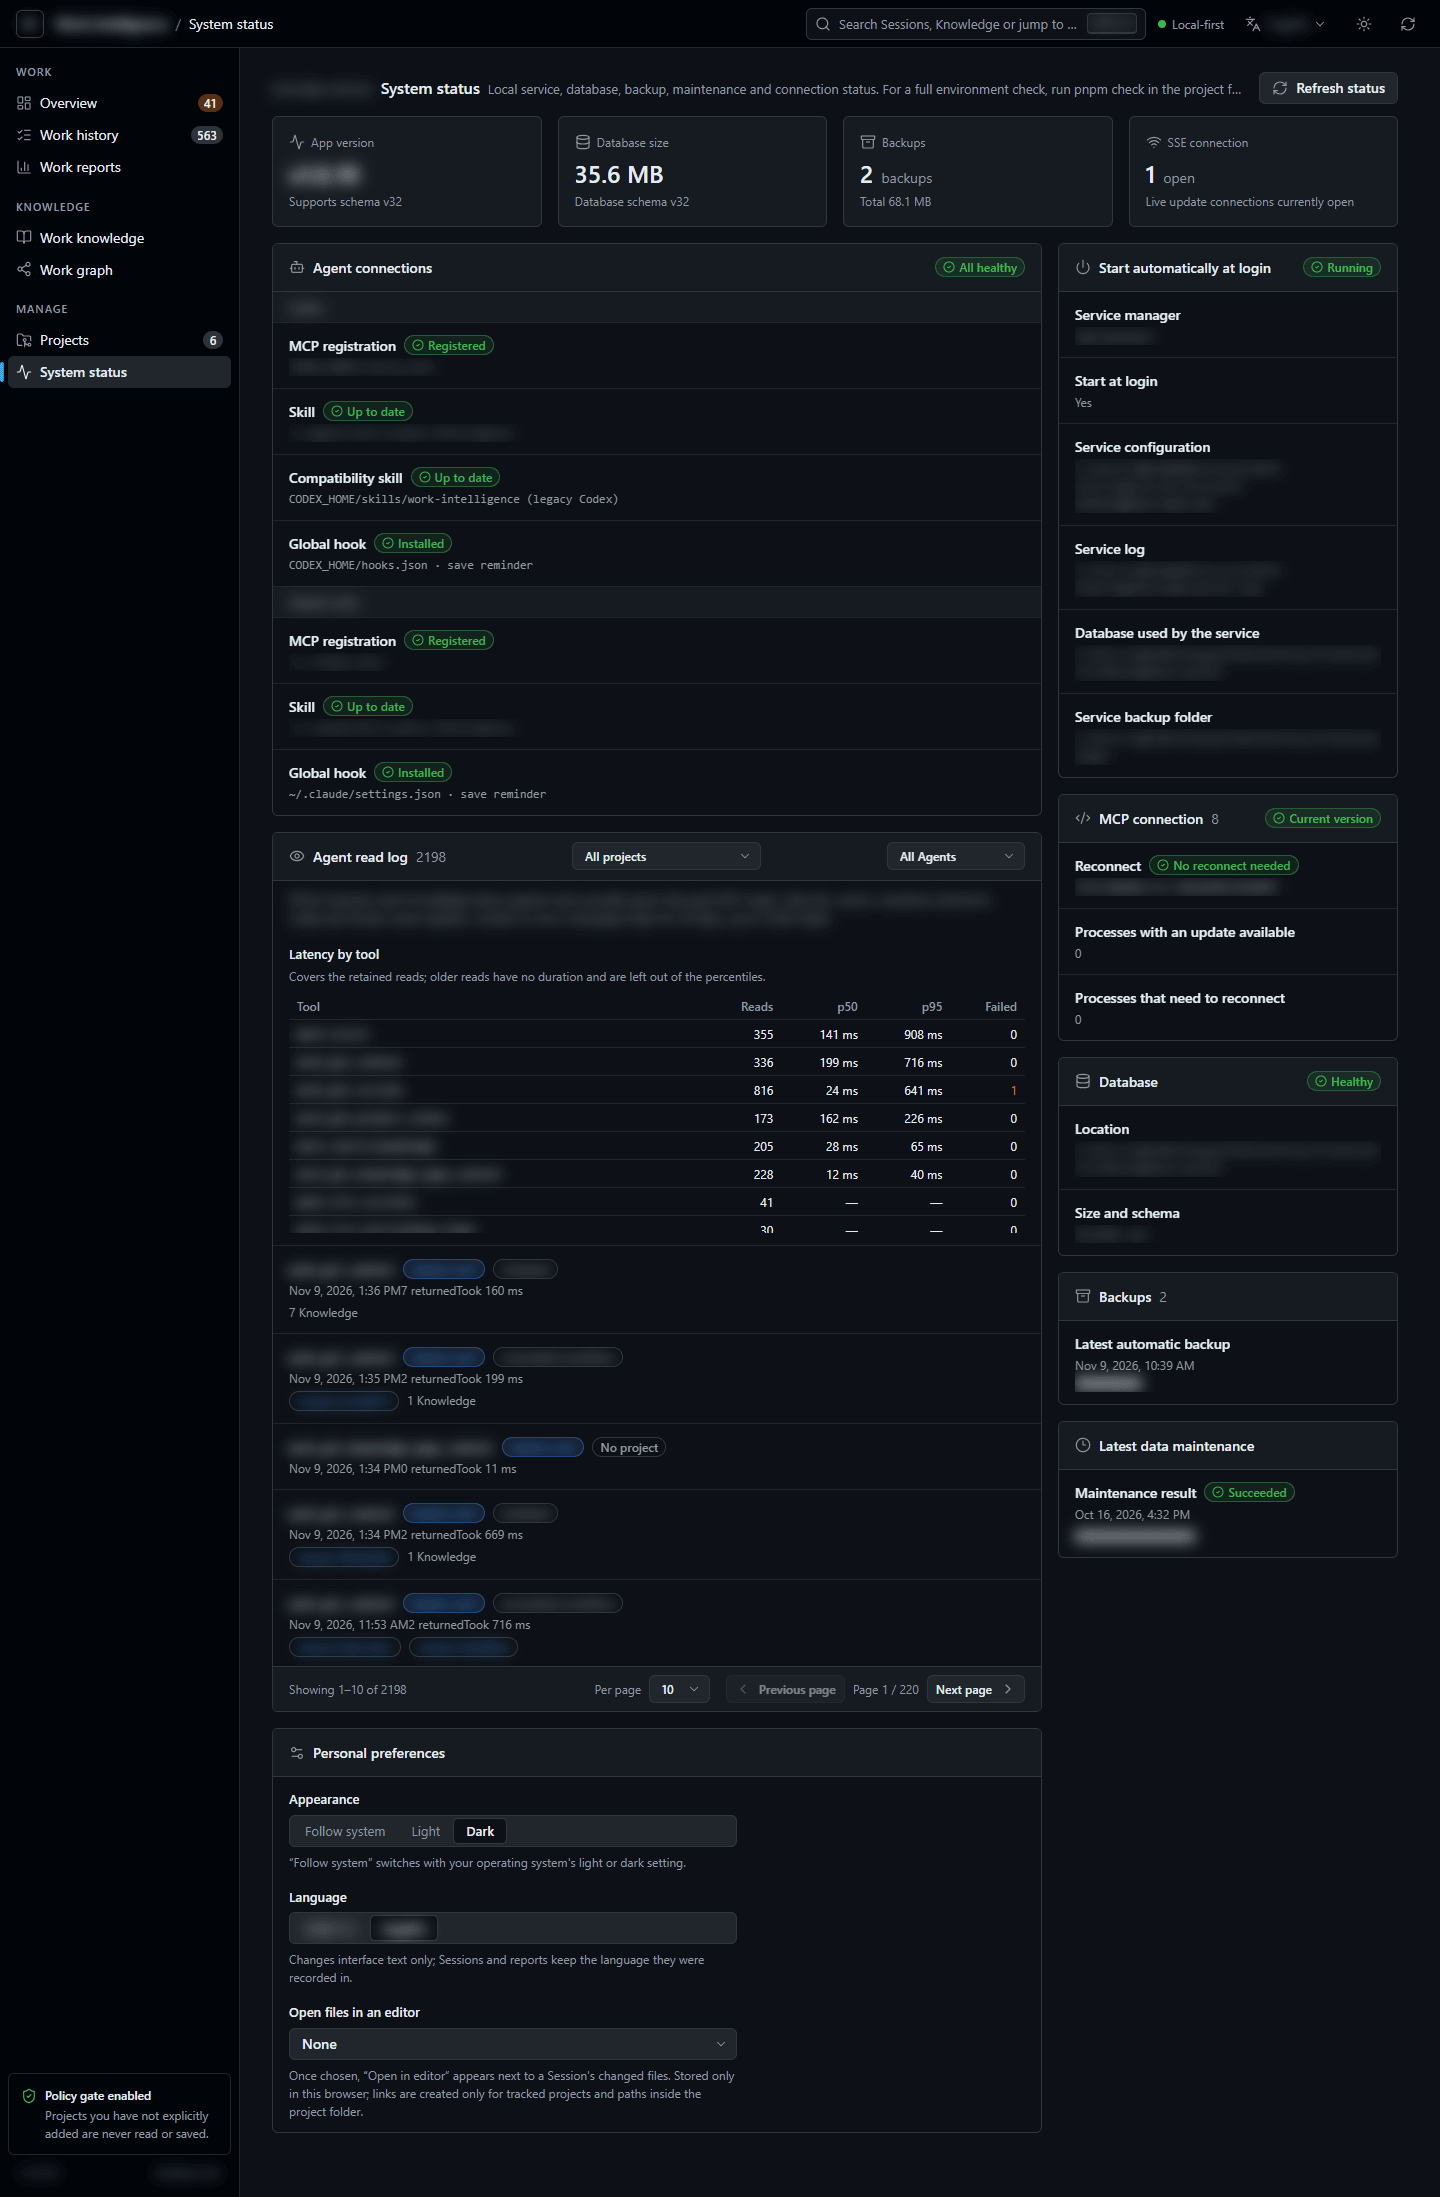
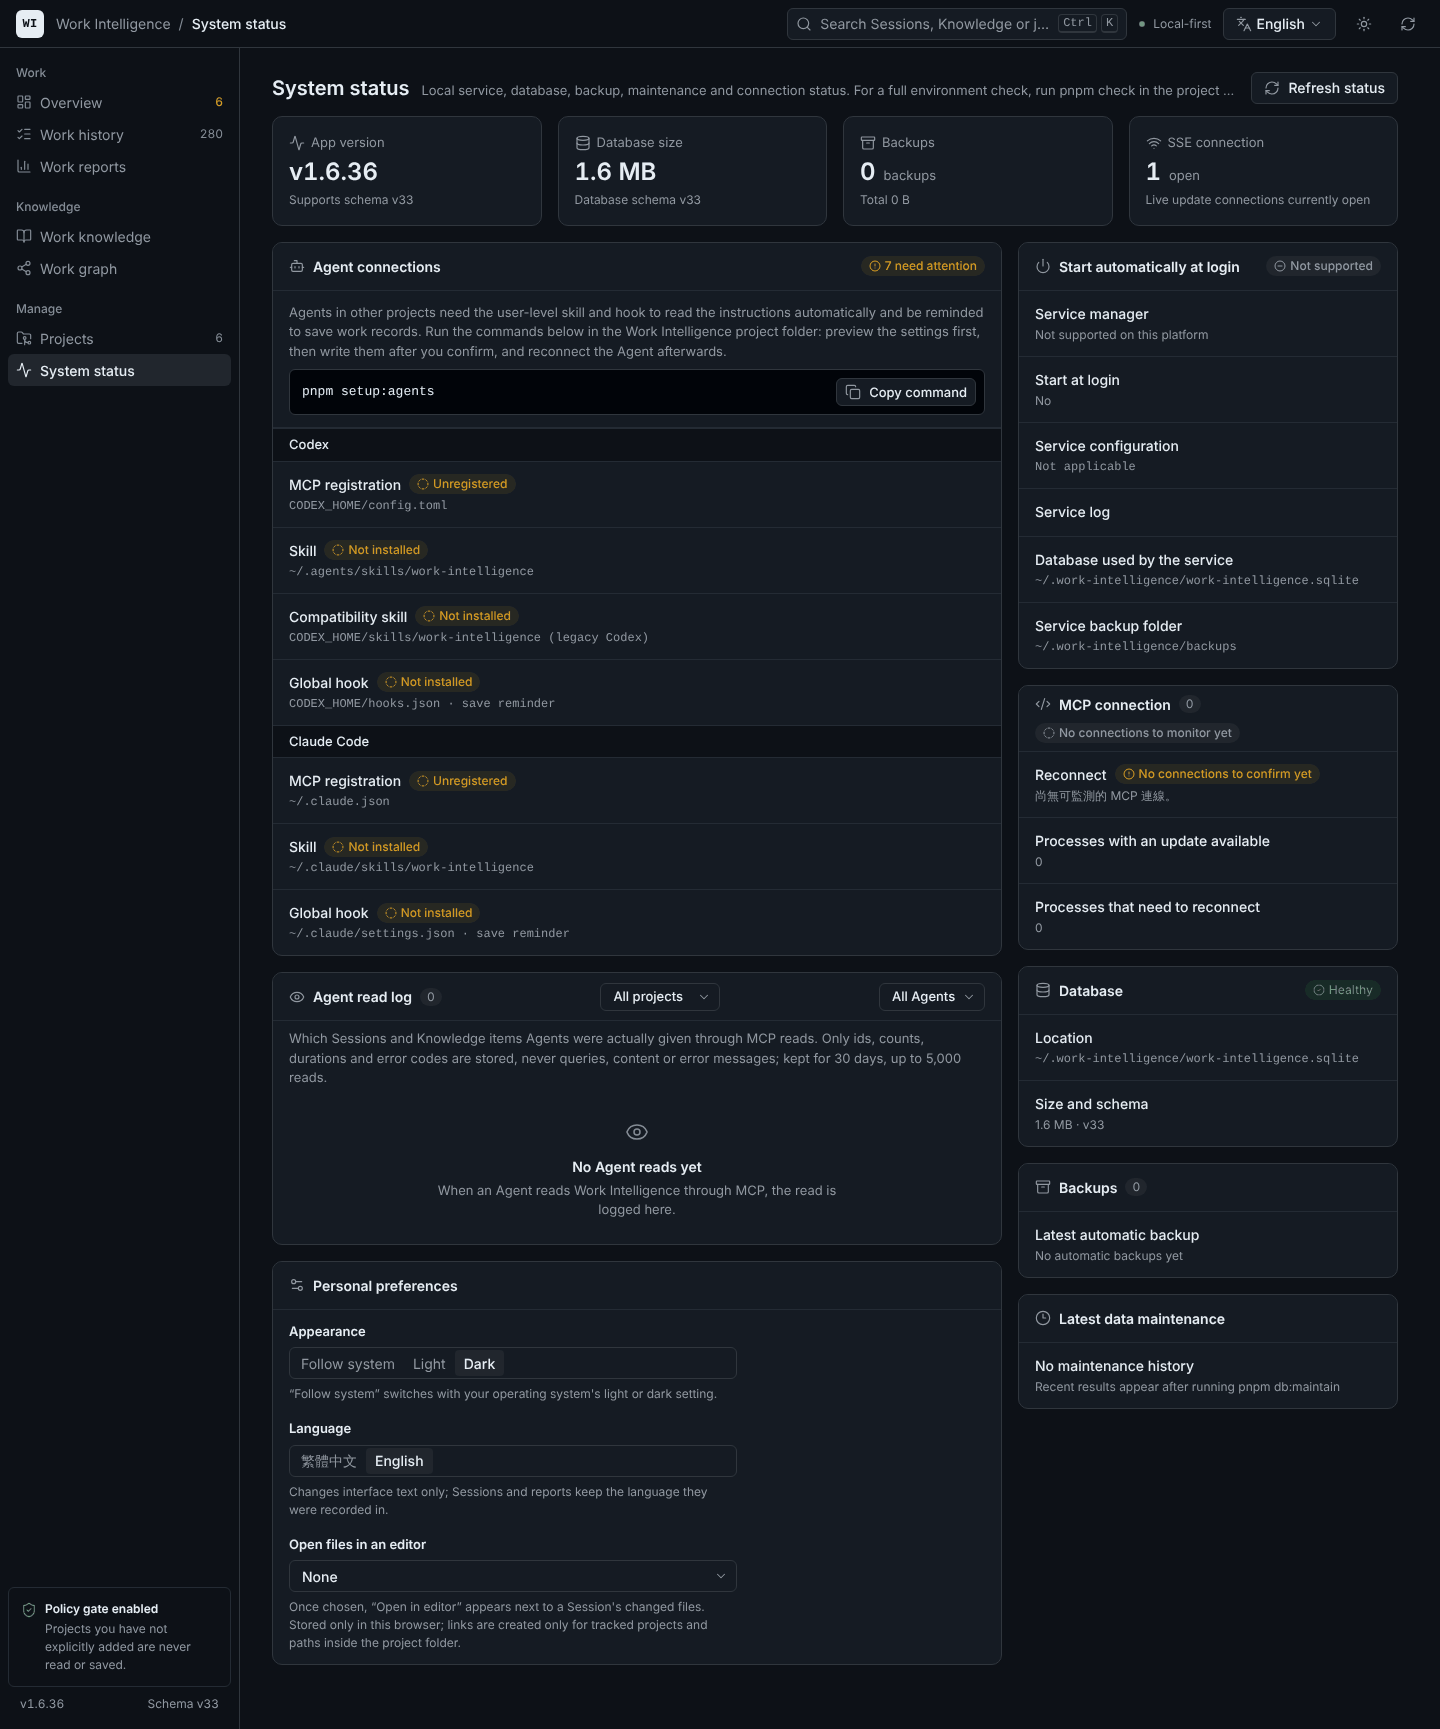
docs: retake README screenshots and record 1.6.36 verification
Retake all README screenshots (zh-TW and en-US) from the new UI with fictional sample data; the work graph shot now shows the Timeline tab. Fill in the verification results and remove the redesign brief.

Claude-Session: https://claude.ai/code/session_01VUVzVBGbKbJz4J43EaQv9q

diff --git a/docs/releases/1.6.36.md b/docs/releases/1.6.36.md
@@ -60,24 +60,20 @@
 
 ## 驗證
 
-> 以下為待填清單，尚未執行；結果填入後才能視為已驗證。
-
-- `pnpm format:check`（待填）
-- `pnpm lint`（待填）
-- `pnpm typecheck`（待填）
-- `pnpm build`（待填）
-- `pnpm test`（待填；遇到第一個失敗套件會停止，其餘套件需另外執行）
-- `pnpm test:coverage`（待填）
-- E2E chromium、firefox、webkit，加 `--trace off`（待填）
-- `pnpm test:start-smoke`（待填）
-- 版面行為對照：1440×900、1440×600、390×844 三種視窗，比對 main 與本分支各頁的主要捲動容器高度、能否捲動與 sticky 位置（待填）
-- 深色與淺色主題的 WCAG AA 對比檢查（待填）
+- `pnpm format:check`、`pnpm lint`、`pnpm typecheck`、`pnpm build`：通過。
+- `pnpm test`：全部套件通過（web 41 個檔案 211 項；storage 95 個檔案 934 項另有 1 項預期失敗；其餘套件皆通過，略過 2 項）。
+- `pnpm test:coverage`：通過，門檻沒有放寬；web 行覆蓋率 90.26%。
+- E2E 加 `--trace off`：chromium 196 項通過、1 項略過；firefox 138 項通過；webkit 120 項通過。包含 `accessibility-states.spec.ts` 的 axe 檢查（zh-TW 與 en-US）。
+- `pnpm test:start-smoke`：5／5 通過。
+- 版面行為對照：用同一份虛構種子資料，在 1440×900、1440×600、390×844 三種視窗量測 main（1.6.35）與本分支的 19 個畫面，共 57 列、735 個適用格，617 格相同、118 格不同。46 列有差異，逐張比對截圖後都判定為內容重組造成的外觀差異，沒有行為退步。分頁器位置、卡片內捲動、水平捲動、換頁回到頂端與側邊面板捲動全部相同。另有兩處差異請留意：
+  - 工作報告總覽的「專案占比」由卡內可捲的虛擬清單改為緊湊清單，卡片不再撐到視窗底，但所有專案都看得到。
+  - 手機寬度的工作知識清單下方多了「類型分布」卡，因此整頁可以捲動。清單本身的捲動、分頁器與 sticky 工具列不變。
+  - 報告系列的 sticky 工具列與表頭因工具列變高，黏住後的位置下移約 3.5px。
 
 ## 未驗證與已知限制
 
-- 上方驗證尚未執行。
-- README 截圖尚未重拍；`docs/images/` 目前仍是改版前的畫面，重拍後才會與文字一致。
-- 新畫面的無障礙與對比尚未以螢幕閱讀器或工具全面檢查。
+- 深色與淺色主題的對比只經過 E2E 中的 axe 檢查，沒有用螢幕閱讀器或其他工具做全面檢查。
+- README 截圖已用新畫面與虛構示意資料重拍（zh-TW、en-US 各 8 張）。英文版「系統狀態」的 MCP 狀態句與「工作報告」的期間摘要句仍是中文；這兩句由 server 端產生，不在這次改版範圍內。
 - 文件中的示意資料皆為虛構，沒有任何真實工作記錄。
 
 ## 升級

diff --git a/docs/status.md b/docs/status.md
@@ -6,9 +6,9 @@
 
 - 最後更新：2026-11-14
 
-## 1.6.36（準備中）
+## 1.6.36（已完成）
 
-Web UI 外觀改版：沿用現有藍色並精修 tokens，拿掉英文大寫小標，重新排版總覽（本週的循環與八週走勢）、工作歷程（時間軸與整日小結）、工作知識（信任條與類型分布）、工作圖譜時間軸與工作報告；專案、系統狀態與 Session 面板套用同一套外觀。共用側邊面板標題列、數字卡格線、雙欄版型與連結按鈕，並修正未定義的 `--fg-attention` 與低於 12px 的圖譜字級。版面行為不變。沒有 schema 變更（33），沒有 storage、server 或 MCP 行為變更，也不需要 migration。未驗證：發行前的驗證指令與版面行為對照尚未執行；README 截圖尚未用新畫面與虛構示意資料重拍。沒做的項目包括沒有資料的數字（引用過去知識的次數、未回報次數）與屬於行為變更的項目。見[更新說明](releases/1.6.36.md)。
+Web UI 外觀改版：沿用現有藍色並精修 tokens，拿掉英文大寫小標，重新排版總覽（本週的循環與八週走勢）、工作歷程（時間軸與整日小結）、工作知識（信任條與類型分布）、工作圖譜時間軸與工作報告；專案、系統狀態與 Session 面板套用同一套外觀。共用側邊面板標題列、數字卡格線、雙欄版型與連結按鈕，並修正未定義的 `--fg-attention` 與低於 12px 的圖譜字級。版面行為不變。沒有 schema 變更（33），沒有 storage、server 或 MCP 行為變更，也不需要 migration。驗證：format、lint、typecheck、build、全部單元測試與 coverage、三種瀏覽器的 E2E 與 start smoke 皆通過；版面行為對照三種視窗沒有行為退步；README 截圖已用虛構示意資料重拍。未驗證：對比只經過 axe 檢查；英文版截圖中有兩句 server 端產生的中文。沒做的項目包括沒有資料的數字（引用過去知識的次數、未回報次數）與屬於行為變更的項目。見[更新說明](releases/1.6.36.md)。
 
 ## 1.6.35（已完成）
 

diff --git a/CHANGELOG.md b/CHANGELOG.md
@@ -32,7 +32,7 @@ The design check method draws on unslop by Damir Sokolovsky (CC BY 4.0). Only th
 
 ### Upgrading
 
-No schema change (33) and no migration. Rebuild and restart. Data, API and MCP behaviour are unchanged; only the appearance and text change. The screenshots in the README are being retaken with fictional sample data.
+No schema change (33) and no migration. Rebuild and restart. Data, API and MCP behaviour are unchanged; only the appearance and text change. The README screenshots were retaken with fictional sample data.
 
 ## [1.6.35] - 2026-11-14
 

diff --git a/README.md b/README.md
@@ -212,7 +212,7 @@ A GitHub (Primer) style interface with dark and light themes, in English and Tra
 
 **Work knowledge**
 
-![Work knowledge: trust bars, staleness reasons and the kind breakdown](docs/images/en-US/work-knowledge.png)
+![Work knowledge: Knowledge list with kind labels, filters and the kind breakdown](docs/images/en-US/work-knowledge.png)
 
 **Work graph** (Timeline tab)
 
